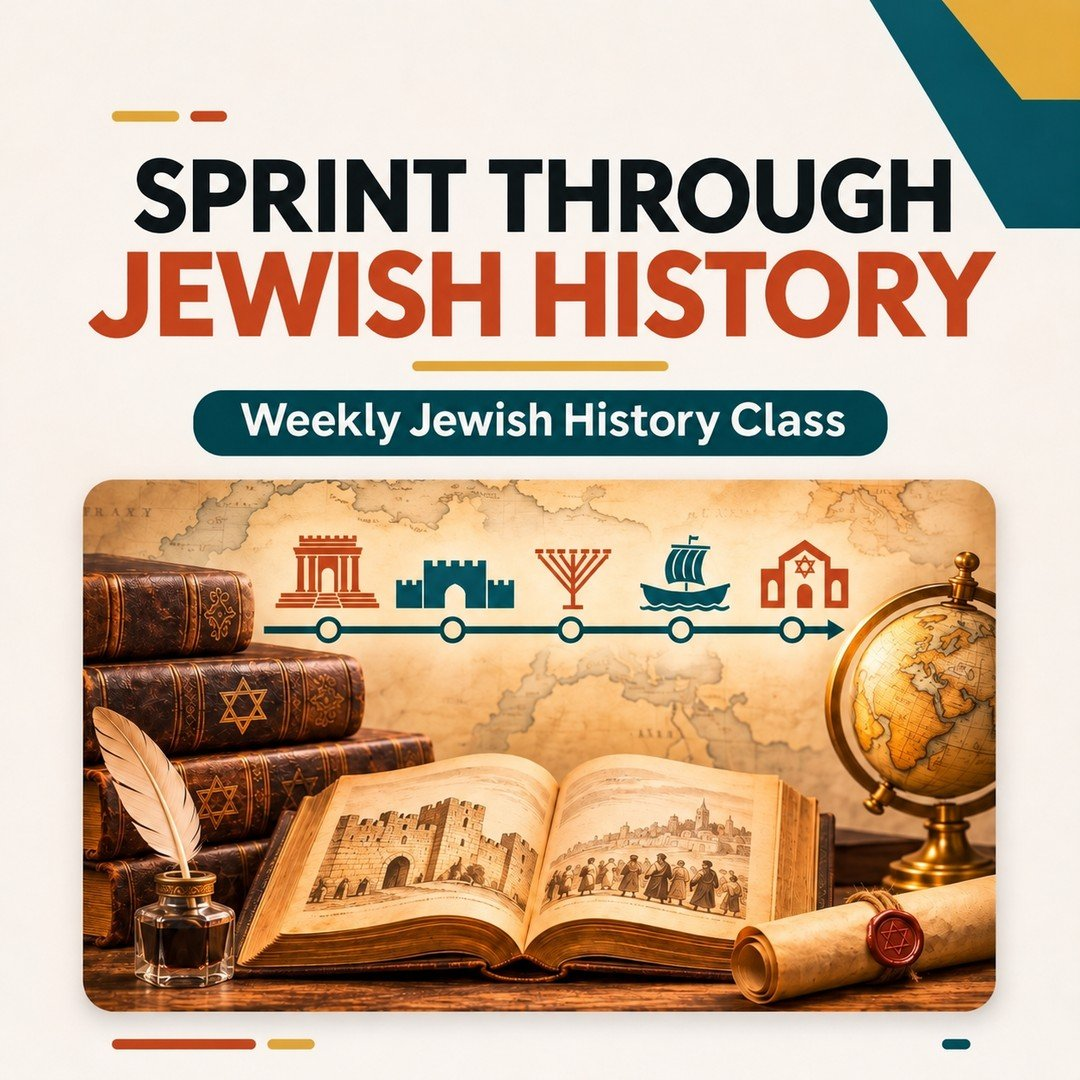
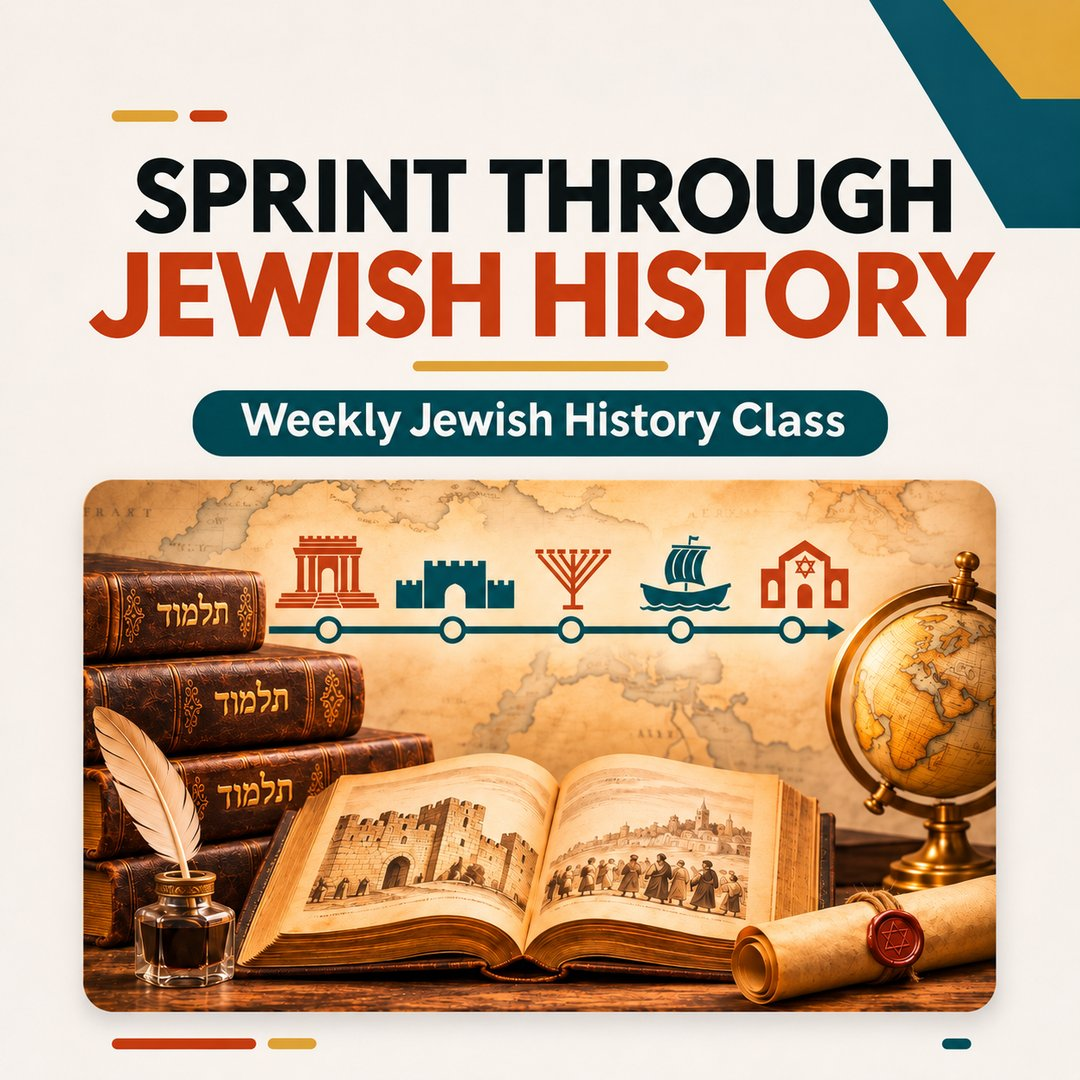
New Torah Studies picture; 'More info' buttons linking each series to its page on jewishcarrollton.org
Claude-Session: https://claude.ai/code/session_015uq7u9KgKecWuA3qNzYxrU

diff --git a/site/app.js b/site/app.js
@@ -173,6 +173,8 @@
   const rsvpLoc = (e) => /rsvp/i.test(e.location || '');
   const mailRsvp = (e) => `mailto:${(DATA.site && DATA.site.email) || ''}?subject=${encodeURIComponent(`RSVP: ${e.title} – ${dayLabel(e.date)}`)}` +
     `&body=${encodeURIComponent(`Hi! I'd like to RSVP for ${e.title} on ${whenText(e)}. Please send me the location.\n\nName:\nNumber of people:\n`)}`;
+  // Link to the series' full page on jewishcarrollton.org (opens in the whole window, not inside the calendar)
+  const pageButton = (e, cls = 'chip') => e.page ? `<a class="${cls}" href="${esc(e.page)}" target="_top">More info →</a>` : '';
   function rsvpButton(e, cls = 'chip solid') {
     if (e.rsvp) return `<a class="${cls}" href="${esc(e.rsvp)}" target="_blank" rel="noopener">RSVP</a>`;
     if (rsvpLoc(e)) return `<a class="${cls}" href="${esc(mailRsvp(e))}">✉ RSVP for location</a>`;
@@ -191,7 +193,7 @@
       <div class="when">${esc(whenText(e))}<span class="heb" dir="rtl">${esc(heb(e.date))}</span></div>
       ${e.location && !rsvpLoc(e) ? `<div class="where">📍 ${esc(e.location)}</div>` : ''}
       ${e.description ? `<div class="desc">${esc(plain(e.description))}</div>` : ''}
-      ${rsvpButton(e) ? `<div class="chips">${rsvpButton(e)}</div>` : ''}
+      ${rsvpButton(e) || e.page ? `<div class="chips">${rsvpButton(e)}${pageButton(e, 'chip')}</div>` : ''}
       </div></article>`;
     void d;
   }
@@ -266,6 +268,7 @@
         ${e.description ? `<div class="body">${richText(e.description)}</div>` : '<div style="height:14px"></div>'}
         <div class="actions">
           ${rsvpButton(e)}
+          ${pageButton(e, 'chip')}
           <a class="chip" href="${esc(googleLink(e))}" target="_blank" rel="noopener">+ Google Calendar</a>
           <button type="button" class="chip" data-act="ics">+ Apple / Outlook</button>
           <a class="chip" href="${esc(waLink(e))}" target="_blank" rel="noopener">Share on WhatsApp</a>

diff --git a/CLAUDE.md b/CLAUDE.md
@@ -16,7 +16,7 @@ Replaces Tockify (paid). Rabbi Yehuda Horowitz's events calendar for jewishcarro
 
 ## Files
 - `config.json` – calendar ID, timezone, location for zmanim (Lewisville, 18-min candles, havdalah 8.5°),
-  `site` (pageUrl, calendarUrl, shareIntro, email), `images` (series → picture), `hide` (event slugs to leave off).
+  `site` (pageUrl, calendarUrl, shareIntro, email), `images` (series → picture), `links` (series → page on the site), `hide` (event slugs to leave off).
 - `scripts/build.mjs` – parses iCal with ical.js (recurrences, exceptions, EXDATE, all-day), times as wall-clock in
   America/Chicago; Hebrew dates/holidays/parsha/candles/havdalah via @hebcal/core; readable slugs; share pages with OG tags.
 - `site/index.html`, `site/style.css`, `site/app.js` – static page, no framework.
@@ -33,6 +33,9 @@ Replaces Tockify (paid). Rabbi Yehuda Horowitz's events calendar for jewishcarro
 - RSVP: a description link containing RSVP/register/sign up → "RSVP" button; a Location containing "RSVP"
   → hidden location + "✉ RSVP for location" mailto to info@JewishCarrollton.org with subject/body prefilled.
 - An event whose end equals its start shows only the start time.
+- "More info →" button (list + popup, opens in the whole window via target=_top) to the series' own page on
+  jewishcarrollton.org, from `config.links` (title prefix → URL): Community/Chanukah Menorah, Minyan, Kid(s) Shabbat,
+  First Fridays, Bagels, Lox / BLT, Torah & Tea, Torah Studies (Weekly Torah Study page), Kids in the Kitchen.
 - Share links: `<calendarUrl>e/<slug>/` (e.g. `torah-studies-nov-25`) → page with OG preview (flyer, title, date) →
   redirects to the jewishcarrollton.org page `#<slug>`; the embed script forwards the parent hash into the iframe, which opens that event.
   WhatsApp text: shareIntro line, *title*, date/time, link.
@@ -57,7 +60,6 @@ window.addEventListener('message',function(e){var d=e.data;if(d){if(d.type==='ch
 ```
 
 ## Pending
-- New Torah Studies picture from the user (swap `site/img/torah-studies.jpg`).
 - Custom domain `events.jewishcarrollton.org`: user emailed/will email ChabadOne support (they manage DNS) for
   `CNAME events → yhlogin-collab.github.io`. When live: set the Pages custom domain, change `site.calendarUrl`
   to `https://events.jewishcarrollton.org/`, give the user the embed line with the new src, verify HTTPS.
